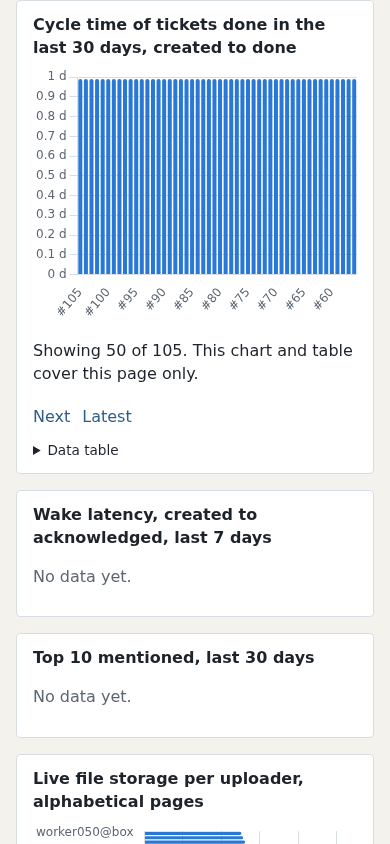
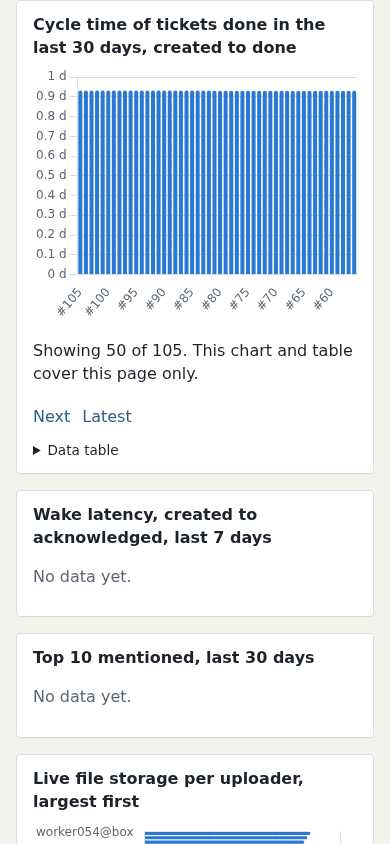
Preserve global leaders with ranked chart keysets

diff --git a/packages/board/src/board/web/static/stats.js b/packages/board/src/board/web/static/stats.js
@@ -71,7 +71,7 @@
     return value.toLocaleString(undefined, { maximumSignificantDigits: 3 });
   }
 
-  function postsPerPrincipal(byDay) {
+  function postsPerPrincipal(byDay, page) {
     const days = Object.keys(byDay);
     const totals = new Map();
     for (const counts of Object.values(byDay)) {
@@ -86,7 +86,7 @@
       .sort()
       .map((principal, slot) => ({ label: principal, members: [principal], color: SERIES_COLORS[slot] }));
     if (ranked.length > keptCount) {
-      groups.push({ label: "Other", members: ranked.slice(keptCount), color: OTHER_COLOR });
+      groups.push({ label: page.total > page.shown ? "Other on this page" : "Other", members: ranked.slice(keptCount), color: OTHER_COLOR });
     }
     const series = groups.map(({ label, members, color }) => ({
       label,
@@ -221,7 +221,7 @@
     const canvas = figure.querySelector("canvas[data-chart]");
     const key = canvas.dataset.chart;
     figure.dataset.chart = key;
-    const spec = SPECS[key](summary[key]);
+    const spec = SPECS[key](summary[key], summary.pages[PAGE_PREFIXES[key]]);
     const prefix = PAGE_PREFIXES[key];
     if (prefix) pageNavigation(figure, prefix, summary.pages[prefix]);
     if (!hasData(spec)) {

diff --git a/packages/board/src/board/web/templates/stats/index.html b/packages/board/src/board/web/templates/stats/index.html
@@ -45,10 +45,10 @@
     </div>
   </figure>
   <figure class="chart">
-    <figcaption>Live file storage per uploader, alphabetical pages</figcaption>
+    <figcaption>Live file storage per uploader, largest first</figcaption>
     <div class="frame">
       <canvas data-chart="files_live_bytes_per_uploader" role="img"
-        aria-label="Bar chart of live file bytes per uploader on this page; the data table follows"></canvas>
+        aria-label="Ranked bar chart of live file bytes per uploader on this page; the data table follows"></canvas>
     </div>
   </figure>
 </div>

diff --git a/packages/board/tests/test_stats.py b/packages/board/tests/test_stats.py
@@ -74,7 +74,7 @@ def test_stats_chart_data_is_paged_without_changing_summary_api(
     }
     middle = browser.get("/stats/data", params=params).json()
     assert [row["ticket_id"] for row in middle["ticket_cycle_time_days"]] == list(range(55, 5, -1))
-    assert middle["files_live_bytes_per_uploader"][0]["uploader"] == "worker050@box"
+    assert middle["files_live_bytes_per_uploader"][0]["uploader"] == "worker054@box"
     back = browser.get("/stats/data", params={"tickets_after": middle["pages"]["tickets"]["previous"]}).json()
     assert back["ticket_cycle_time_days"] == first["ticket_cycle_time_days"]
     legacy = _summary(browser)
@@ -101,7 +101,8 @@ def test_stats_cursors_survive_deleted_boundaries_and_expiry(
     ).json()
     assert page["pages"]["tickets"]["total"] == page["pages"]["files"]["total"] == 104
     assert [item["ticket_id"] for item in page["ticket_cycle_time_days"]] == list(range(55, 5, -1))
-    assert page["files_live_bytes_per_uploader"][0]["uploader"] == "worker051@box"
+    assert page["files_live_bytes_per_uploader"][0]["uploader"] == "worker054@box"
+    assert all(row["uploader"] != "worker050@box" for row in page["files_live_bytes_per_uploader"])
 
 
 def test_stats_page_queries_use_limits_and_ticket_index(
@@ -147,6 +148,70 @@ def test_stats_post_principal_pages_exclude_discarded_future_days(
     assert data["pages"]["posts"]["total"] == data["pages"]["posts"]["shown"] == 1
     assert len(data["posts_per_principal_per_day"]) == WINDOW_DAYS
     assert all("future@box" not in counts for counts in data["posts_per_principal_per_day"].values())
+
+
+def test_stats_ranked_pages_keep_global_leaders_first(
+    browser: TestClient, settings: Settings, human_password: str
+) -> None:
+    _log_in(browser, human_password)
+    _seed_paged_stats(settings)
+    with closing(sqlite3.connect(settings.db_path)) as conn, conn:
+        conn.executemany(
+            "INSERT INTO posts (thread_id, author, author_kind, body, created_at) "
+            "VALUES (1, 'worker104@box', 'agent', 'Extra', ?)",
+            [(time.time(),)] * 5,
+        )
+    data = browser.get("/stats/data").json()
+    assert data["files_live_bytes_per_uploader"][0]["uploader"] == "worker104@box"
+    counts = {
+        name: count for day in data["posts_per_principal_per_day"].values() for name, count in day.items()
+    }
+    assert counts["worker104@box"] == 6 and "worker049@box" not in counts
+    next_page = browser.get("/stats/data", params={"posts_after": data["pages"]["posts"]["next"]}).json()
+    assert all("worker104@box" not in day for day in next_page["posts_per_principal_per_day"].values())
+
+
+def test_stats_ranked_file_ties_reconstruct_without_gaps(
+    browser: TestClient, settings: Settings, human_password: str
+) -> None:
+    _log_in(browser, human_password)
+    _seed_paged_stats(settings)
+    with closing(sqlite3.connect(settings.db_path)) as conn, conn:
+        conn.execute("UPDATE files SET size = 10")
+    params: dict[str, str] = {}
+    seen: list[str] = []
+    for count in (50, 50, 5):
+        data = browser.get("/stats/data", params=params).json()
+        assert len(data["files_live_bytes_per_uploader"]) == count
+        seen.extend(row["uploader"] for row in data["files_live_bytes_per_uploader"])
+        params = {"files_after": data["pages"]["files"]["next"]}
+    assert seen == [f"worker{i:03}@box" for i in range(105)]
+    previous = browser.get("/stats/data", params={"files_before": data["pages"]["files"]["previous"]}).json()
+    assert previous["files_live_bytes_per_uploader"][0]["uploader"] == "worker050@box"
+
+
+@pytest.mark.parametrize("metric", ["posts", "files"])
+@pytest.mark.parametrize(
+    "payload",
+    [
+        None,
+        [True, "human"],
+        [-1, "human"],
+        [float("nan"), "human"],
+        [2**63, "human"],
+        [1, None],
+        [1, ""],
+        ["1", "human"],
+    ],
+)
+def test_stats_rank_cursors_are_strict(
+    browser: TestClient, human_password: str, metric: str, payload: object
+) -> None:
+    import json
+
+    _log_in(browser, human_password)
+    token = base64.urlsafe_b64encode(json.dumps(payload).encode()).decode()
+    assert browser.get("/stats/data", params={f"{metric}_after": token}).status_code == 400
 
 
 def test_stats_chart_data_protects_and_validates_cursors(browser: TestClient, human_password: str) -> None:

diff --git a/packages/board/src/board/stats/pagination.py b/packages/board/src/board/stats/pagination.py
@@ -49,7 +49,7 @@ def aggregates(conn: sqlite3.Connection, cursors: dict[str, tuple[str | None, st
         {"uploader": row["uploaded_by"], "bytes": row["bytes"]}
         for row in conn.execute(
             "SELECT uploaded_by, SUM(size) AS bytes FROM files WHERE expires_at > ? "
-            "AND uploaded_by IN (SELECT value FROM json_each(?)) GROUP BY uploaded_by ORDER BY uploaded_by",
+            "AND uploaded_by IN (SELECT value FROM json_each(?)) GROUP BY uploaded_by ORDER BY bytes DESC, uploaded_by",
             (now, json.dumps(uploaders.values)),
         )
     ]
@@ -80,33 +80,62 @@ def _keys(
     after: str | None,
 ) -> Keys:
     _validate(before, after)
-    key = before if before is not None else after
-    order = "DESC" if before is not None else "ASC"
-    operator = "<" if before is not None else ">"
-    bound = f" AND {column} {operator} ?" if key is not None else ""
-    values = tuple(
-        row[0]
-        for row in conn.execute(
-            f"SELECT {column} FROM {table} WHERE {where}{bound} GROUP BY {column} "
-            f"ORDER BY {column} {order} LIMIT 50",
-            (*params, *((key,) if key is not None else ())),
+    token = before if before is not None else after
+    key = _decode_rank(token) if token is not None else None
+    aggregate = "COUNT(*)" if table == "posts" else "SUM(size)"
+    base = f"WITH ranked AS (SELECT {column} AS name, {aggregate} AS score FROM {table} WHERE {where} GROUP BY {column}) "
+    score_order, name_order = ("ASC", "DESC") if before is not None else ("DESC", "ASC")
+    comparison, name_comparison = (">", "<") if before is not None else ("<", ">")
+    bound = (
+        f" WHERE score {comparison} ? OR (score = ? AND name {name_comparison} ?)" if key is not None else ""
+    )
+    values = () if key is None else (key[0], key[0], key[1])
+    rows = tuple(
+        conn.execute(
+            base
+            + f"SELECT name, score FROM ranked{bound} ORDER BY score {score_order}, name {name_order} LIMIT 50",
+            (*params, *values),
         )
     )
     if before is not None:
-        values = tuple(reversed(values))
+        rows = tuple(reversed(rows))
     total = conn.execute(f"SELECT COUNT(DISTINCT {column}) FROM {table} WHERE {where}", params).fetchone()[0]
 
-    def exists(value: str, comparison: str) -> bool:
+    def exists(row: sqlite3.Row, earlier: bool) -> bool:
+        comparison, name_comparison = (">", "<") if earlier else ("<", ">")
         return (
             conn.execute(
-                f"SELECT 1 FROM {table} WHERE {where} AND {column} {comparison} ? LIMIT 1", (*params, value)
+                base
+                + f"SELECT 1 FROM ranked WHERE score {comparison} ? OR (score = ? AND name {name_comparison} ?) LIMIT 1",
+                (*params, row["score"], row["score"], row["name"]),
             ).fetchone()
             is not None
         )
 
-    next_key = values[-1] if values and exists(values[-1], ">") else None
-    previous = values[0] if values and exists(values[0], "<") else None
-    return Keys(values, total, next_key, previous)
+    next_key = _encode_rank(rows[-1]) if rows and exists(rows[-1], False) else None
+    previous = _encode_rank(rows[0]) if rows and exists(rows[0], True) else None
+    return Keys(tuple(row["name"] for row in rows), total, next_key, previous)
+
+
+def _encode_rank(row: sqlite3.Row) -> str:
+    return base64.urlsafe_b64encode(json.dumps([row["score"], row["name"]]).encode()).decode().rstrip("=")
+
+
+def _decode_rank(token: str) -> tuple[int, str]:
+    try:
+        if len(token) > 512:
+            raise ValueError
+        values = json.loads(base64.b64decode(token + "=" * (-len(token) % 4), altchars=b"-_", validate=True))
+        if not isinstance(values, list) or len(values) != 2:
+            raise ValueError
+        score, name = values
+        if type(score) is not int or not 0 <= score <= 2**63 - 1:
+            raise ValueError
+        if not isinstance(name, str) or not 1 <= len(name) <= 200:
+            raise ValueError
+        return score, name
+    except (ValueError, TypeError, OverflowError):
+        raise InvalidCursor from None
 
 
 def _tickets(

diff --git a/scripts/test-stats-pagination.py b/scripts/test-stats-pagination.py
@@ -71,14 +71,14 @@ def main() -> None:
                 assert "#55" in (tickets.locator("tbody tr").first.text_content() or "")
                 files.get_by_role("link", name="Next", exact=True).click()
                 files.get_by_role("link", name="Previous", exact=True).wait_for()
-                assert "worker050@box" in (files.locator("tbody tr").first.text_content() or "")
+                assert "worker054@box" in (files.locator("tbody tr").first.text_content() or "")
                 assert "#55" in (tickets.locator("tbody tr").first.text_content() or "")
                 tickets.get_by_role("link", name="Previous", exact=True).click()
                 tickets.get_by_role("link", name="Next", exact=True).wait_for()
                 assert "files_after=" in page.url and "#105" in (
                     tickets.locator("tbody tr").first.text_content() or ""
                 )
-                assert "worker050@box" in (files.locator("tbody tr").first.text_content() or "")
+                assert "worker054@box" in (files.locator("tbody tr").first.text_content() or "")
                 tickets.locator("summary").click()
                 assert page.evaluate("document.documentElement.scrollWidth <= innerWidth")
                 tickets.locator("summary").click()

diff --git a/packages/board/src/board/stats/routes.py b/packages/board/src/board/stats/routes.py
@@ -40,10 +40,10 @@ def _stats_page(db: Database, forum: Forum) -> APIRouter:
 
     @router.get("/stats/data")
     async def paged_data(
-        posts_before: Annotated[str | None, Query(max_length=200)] = None,
-        posts_after: Annotated[str | None, Query(max_length=200)] = None,
-        files_before: Annotated[str | None, Query(max_length=200)] = None,
-        files_after: Annotated[str | None, Query(max_length=200)] = None,
+        posts_before: Annotated[str | None, Query(max_length=512)] = None,
+        posts_after: Annotated[str | None, Query(max_length=512)] = None,
+        files_before: Annotated[str | None, Query(max_length=512)] = None,
+        files_after: Annotated[str | None, Query(max_length=512)] = None,
         tickets_before: Annotated[str | None, Query(max_length=512)] = None,
         tickets_after: Annotated[str | None, Query(max_length=512)] = None,
     ) -> dict[str, Any]:

diff --git a/docs/stats-pagination.md b/docs/stats-pagination.md
@@ -3,19 +3,22 @@
 The human statistics view uses `/stats/data`, not the complete legacy summary API.
 It pages the three variable-size datasets before constructing chart and table data:
 
-- Posts: at most 50 distinct principals, alphabetically, over the existing 30-day window.
+- Posts: at most 50 distinct principals, ranked by total posts descending with an
+  alphabetical tie break, over the existing 30-day window.
   A page contains at most 30 daily buckets with counts for those 50 principals.
 - Ticket cycle times: at most 50 completed tickets, newest completion first, with an
   immutable ticket-id tie break. Composite cursors carry the completion timestamp and id.
-- Live file bytes: at most 50 uploaders, alphabetically, with all live bytes aggregated
-  for each selected uploader. The label explicitly describes alphabetical pages.
+- Live file bytes: at most 50 uploaders, ranked by live bytes descending with an
+  alphabetical tie break, with all live bytes aggregated for each selected uploader.
 
 Each chart has its own Previous/Next/Latest links and matching total/shown counts.
 Navigation preserves the other charts' cursors. The scope note says that the chart and
 its data table cover only the selected page. Latest resets only that chart. Empty
 intervals retain Latest. Data tables are horizontally scrollable at narrow widths.
 
-`posts_before`/`posts_after` and `files_before`/`files_after` are exclusive name cursors.
+`posts_before`/`posts_after` and `files_before`/`files_after` are exclusive opaque
+ranking-value/name cursors. The leading page retains global leaders. On partial pages,
+the post chart labels its folded tail "Other on this page", not a global Other total.
 `tickets_before`/`tickets_after` are exclusive opaque composite cursors. Neither member
 of a pair can be combined with the other. Invalid cursors produce a 400 JSON response,
 which the page reports as a load error. Fetch requests use the existing HX login-expiry
